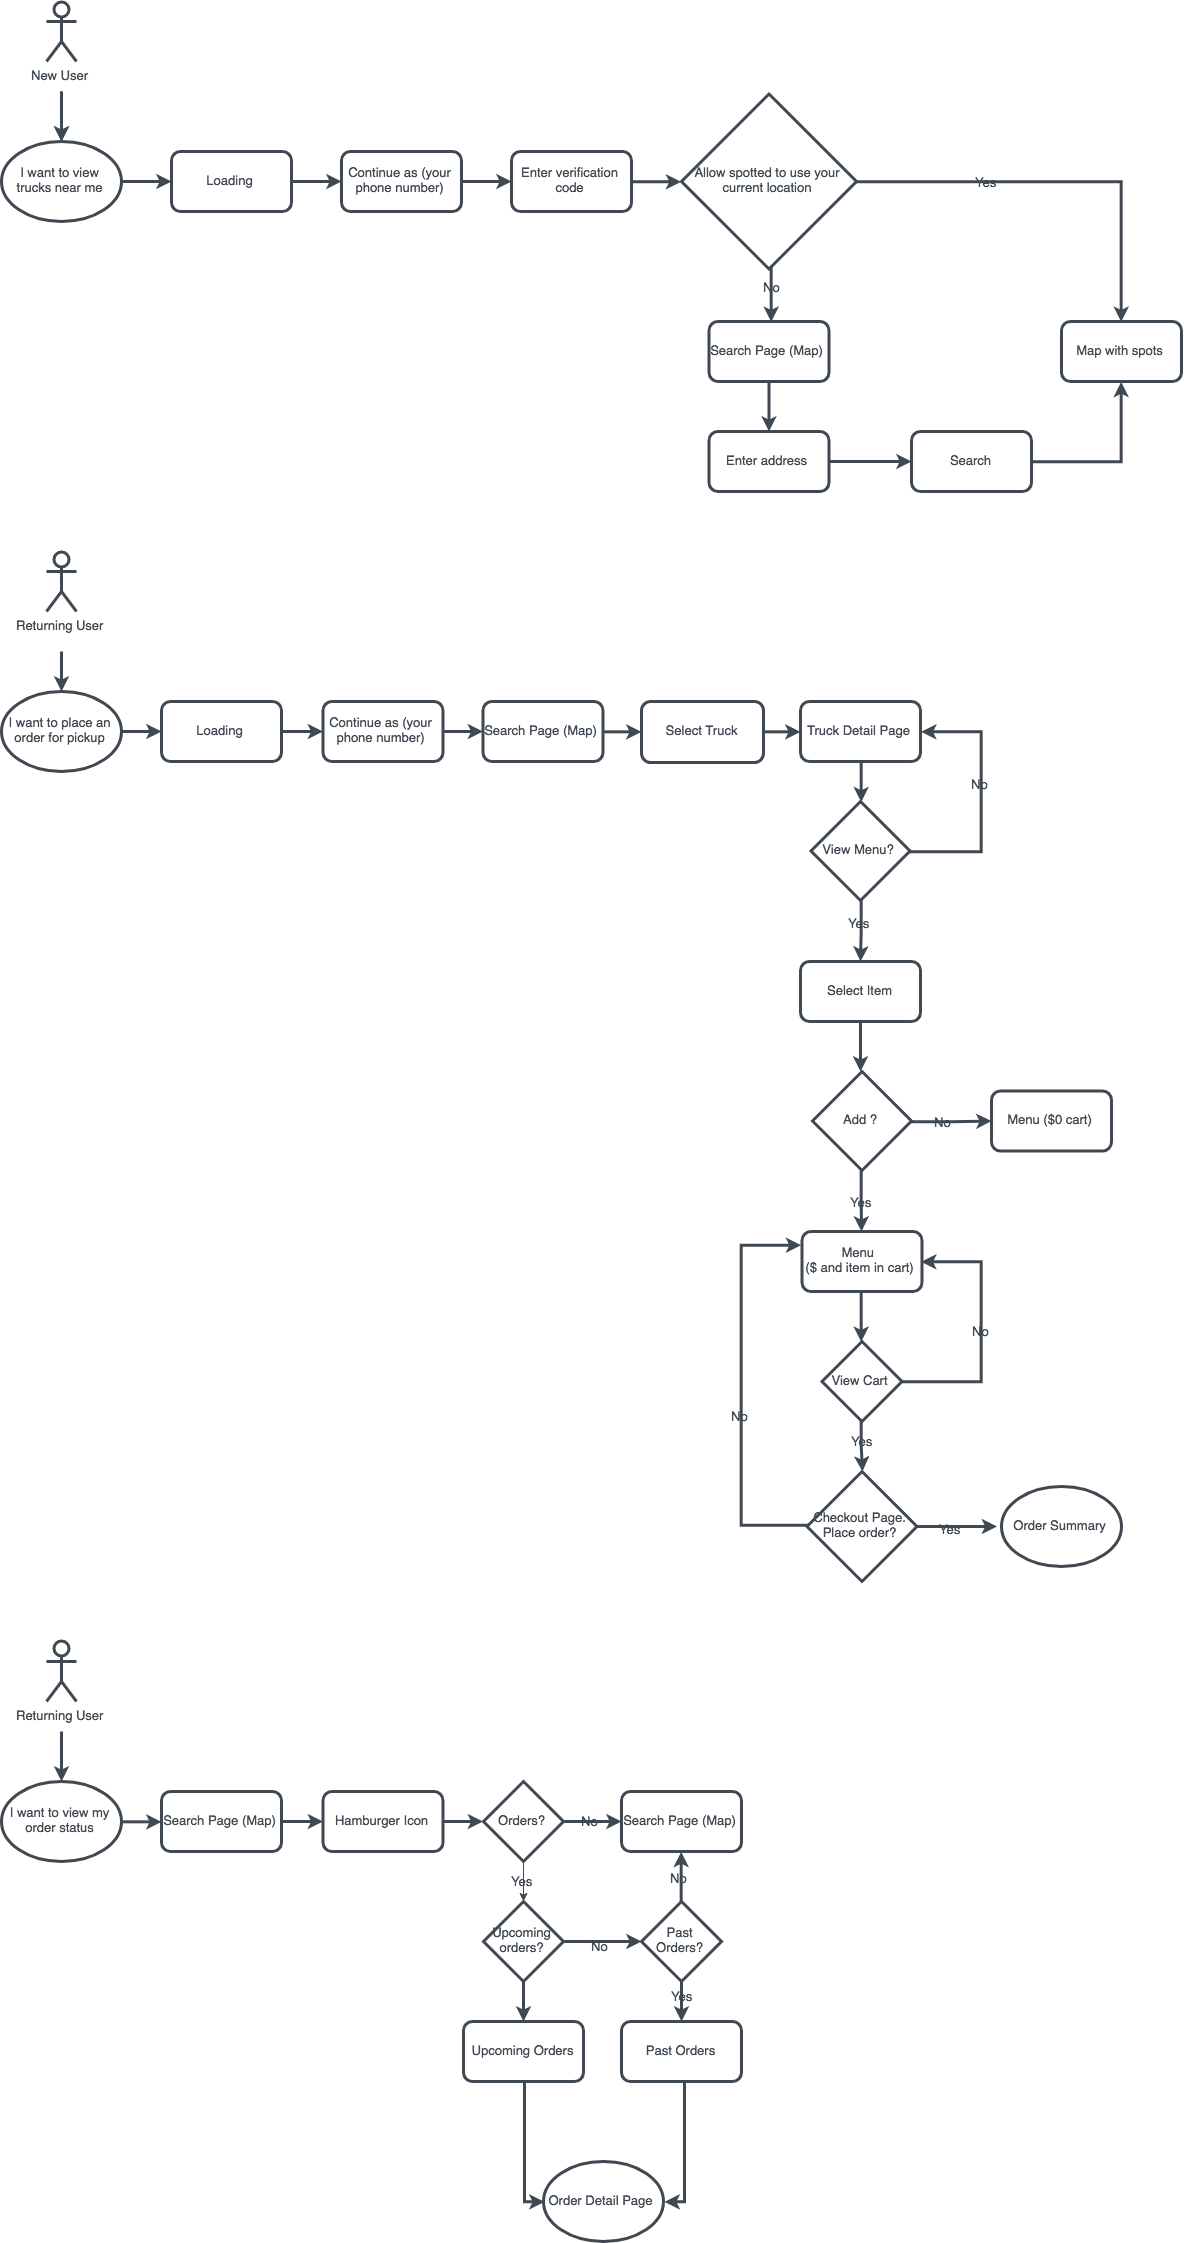
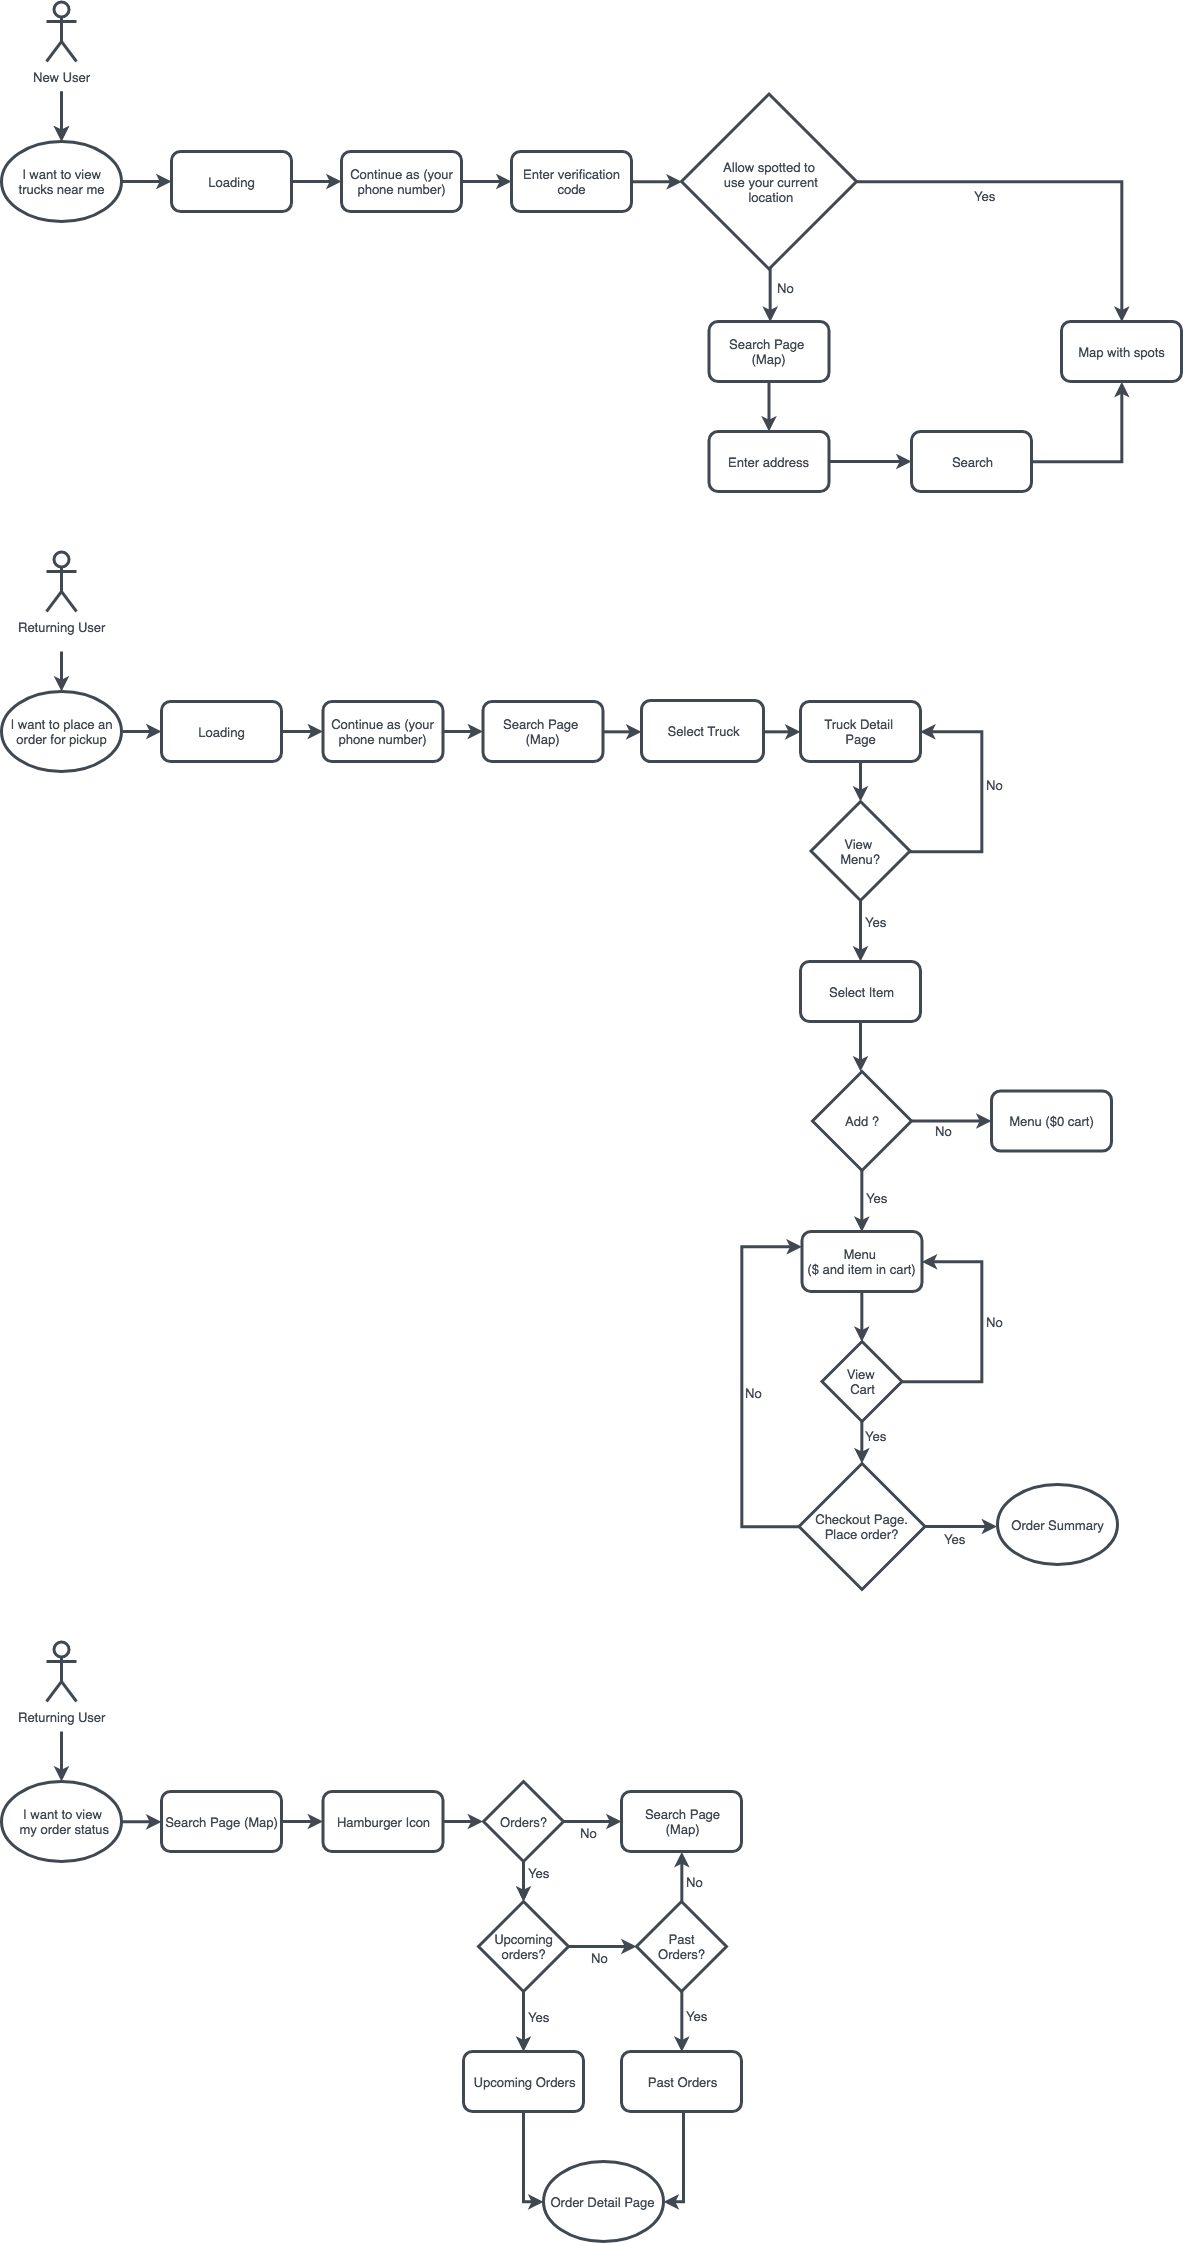
fixed user flows img

diff --git a/wasted.html b/wasted.html
@@ -58,7 +58,7 @@
             <li><a href="index.html" class="nav-item nav-link">HOME</a></li>
             <li><a href="index.html#work-landing" class="nav-item nav-link">ALL WORK<span class="sr-only">(current)</span></a></li>
             <li><a href="about.html" class="nav-item nav-link">ABOUT</a></li>
-            <li><a href="https://drive.google.com/file/d/1opeTQmTCmyy3ldVmmcLJvgDV6bBP1nVL/view?usp=sharing" target="_blank" class="nav-item nav-link">RESUME</a></li>
+            <li><a href="https://drive.google.com/file/d/17IOLVj9S6q36M6InaqTySi9cL_Q9hbSg/view?usp=sharing" target="_blank" class="nav-item nav-link">RESUME</a></li>
             <li><a href="#contact" class="nav-item nav-link">CONTACT</a></li>
           </ul>
       </div>
@@ -540,8 +540,8 @@ When conducting interviews, I took full advantage of the opportunity to speak to
     </div>
     <div class="flows">
       <h3 class="lg">User Flows</h3>
-      <p class="lg">Like an e-commerce site, users make purchases on wasted. Limiting the number of steps and fields from discovery - checkout is essential. To simplify tasks and get users from point A to point B with the fewest number of clicks I generated user flows prior to developing my visual designs.</p>
-      <div class="row text-center"><a href="https://drive.google.com/file/d/1Lkye8At11eW30ZnePeEKeZHX1VJPw5Ln/view?usp=sharing" target="_blank" class="case lemon dark btn left">Select User Flows</a></div>
+      <p class="lg">As an e-commerce site the primary goal is to get users to make a purchase. Limiting the number of steps and fields from discovery - checkout is essential. To simplify tasks and get users from point A to point B quickly and effortlessly, I developed user flows prior to developing my visual designs.</p>
+      <div class="row text-center"><a href="https://drive.google.com/file/d/1q539bvRLcPrTghxvq2NhFpWXgCS5VZ7g/view?usp=sharing" target="_blank" class="case lemon dark btn left">Select User Flows</a></div>
     </div>
   </div>
 </div>
@@ -570,8 +570,8 @@ When conducting interviews, I took full advantage of the opportunity to speak to
   </div>
   <div class="flows">
     <h3 class="sm">User Flows</h3>
-    <p class="sm">Like an e-commerce site, users make purchases on wasted. Limiting the number of steps and fields from discovery - checkout is essential. To simplify tasks and get users from point A to point B with the fewest number of clicks I generated user flows prior to developing my visual designs.</p>
-    <div class="row text-center"><a href="https://drive.google.com/file/d/1Lkye8At11eW30ZnePeEKeZHX1VJPw5Ln/view?usp=sharing" target="_blank" class="case lemon dark btn left">Select User Flows</a></div>
+    <p class="sm">As an e-commerce site the primary goal is to get users to make a purchase. Limiting the number of steps and fields from discovery - checkout is essential. To simplify tasks and get users from point A to point B quickly and effortlessly, I developed user flows prior to developing my visual designs.</p>
+    <div class="row text-center"><a href="https://drive.google.com/file/d/1q539bvRLcPrTghxvq2NhFpWXgCS5VZ7g/view?usp=sharing" target="_blank" class="case lemon dark btn left">Select User Flows</a></div>
   </div>
 </div>
 </div>
@@ -637,14 +637,14 @@ When conducting interviews, I took full advantage of the opportunity to speak to
       <p class="lg">When analyzing my competitors I paid close attention to the different types of navigation. Deciding to sell only women's products eliminated one level of categorization. My focus was then to think of the most intuitive way to sort top level categories and sub categories. Some e-commerce sites have confusing categories or more than one way to navigate to a particular type of item, because some items fall in more than one category. I wanted to avoid this and have one clear way to arrive a particular type of item or action.</p>
       <img src="images/wasted/wasted-sitemap.png" class="sitemap mx-auto d-block"/>
     <div class="row">
-        <a href="https://drive.google.com/file/d/1SOiETEPl3oiRl4vGS0WKviv6ixJrs52X/view?usp=sharing" target="_blank" class="case dark btn lime left">View Sitemap PDF</a>
+        <a href="https://drive.google.com/file/d/1tg2oEOWqx7rLDV1bovCeqxSmfc5tU8FZ/view?usp=sharing" target="_blank" class="case dark btn lime left">View Sitemap PDF</a>
     </div>
   </div>
   <div class="container-fluid wasted-c sitemap sm d-md-none">
       <h3 class="sm case dark">Navigation</h3>
       <p class="sm sitemap">When analyzing my competitors I paid close attention to the different types of navigation. Deciding to sell only women's products eliminated one level of categorization. My focus was then to think of the most intuitive way to sort top level categories and sub categories. Some e-commerce sites have confusing categories or more than one way to navigate to a particular type of item, because some items fall in more than one category. I wanted to avoid this and have one clear way to arrive a particular type of item or action.</p>
       <div class="row">
-        <a href="https://drive.google.com/file/d/1SOiETEPl3oiRl4vGS0WKviv6ixJrs52X/view?usp=sharing" target="_blank" class="case dark btn lime left">View Sitemap</a>
+        <a href="https://drive.google.com/file/d/1tg2oEOWqx7rLDV1bovCeqxSmfc5tU8FZ/view?usp=sharing" target="_blank" class="case dark btn lime left">View Sitemap</a>
       </div>
     </div>
 

diff --git a/dockit.html b/dockit.html
@@ -61,7 +61,7 @@
             <li><a href="index.html" class="nav-item nav-link">HOME</a></li>
             <li><a href="index.html#work-landing" class="nav-item nav-link">ALL WORK<span class="sr-only">(current)</span></a></li>
             <li><a href="about.html" class="nav-item nav-link">ABOUT</a></li>
-            <li><a href="https://drive.google.com/file/d/1opeTQmTCmyy3ldVmmcLJvgDV6bBP1nVL/view?usp=sharing" target="_blank" class="nav-item nav-link">RESUME</a></li>
+            <li><a href="https://drive.google.com/file/d/17IOLVj9S6q36M6InaqTySi9cL_Q9hbSg/view?usp=sharing" target="_blank" class="nav-item nav-link">RESUME</a></li>
             <li><a href="#contact" class="nav-item nav-link">CONTACT</a></li>
           </ul>
       </div>
@@ -484,7 +484,7 @@
   <!-- user stories/flows -->
   <div class="container-fluid stories dockit-c lg d-none d-md-block">
     <div class="row">
-    <div class="col-sm-6"><img src="images/dockit/user-flows.png" class="flows"/></div>
+    <div class="col-sm-6"><img src="images/dockit/dockit-user-flows.png" class="flows"/></div>
     <div class="col-sm-6">
       <div>
       <h3 class="lg white">User Stories</h3>
@@ -507,7 +507,7 @@
     <div class="flows">
       <h3 class="lg white">User Flows</h3>
       <p class="lg white">To clarify the complexities of user tasks and establish the information architecture of Dockit, I created user flows prior to developing my visual designs.</p>
-      <div class="row"><a href="https://drive.google.com/file/d/177z5MB0LnuhRaeybcwg-q9QV8pCd2AhB/view?usp=sharing" target="_blank" class="case seafoam btn left">Select User Flows</a></div>
+      <div class="row"><a href="https://drive.google.com/file/d/1ztlNchVWmnHbtEilzggoYaIh2CMJt5eR/view?usp=sharing" target="_blank" class="case seafoam btn left">Select User Flows</a></div>
     </div>
     </div>
   </div>
@@ -538,7 +538,7 @@
     <div class="flows">
       <h3 class="white sm">User Flows</h3>
       <p class="white sm">To clarify the complexities of user tasks and establish the information architecture of Dockit, I created user flows prior to developing my visual designs.</p>
-      <div class="row"><a href="https://drive.google.com/file/d/177z5MB0LnuhRaeybcwg-q9QV8pCd2AhB/view?usp=sharing" target="_blank" class="case seafoam btn left">Select User Flows</a></div>
+      <div class="row"><a href="https://drive.google.com/file/d/1ztlNchVWmnHbtEilzggoYaIh2CMJt5eR/view?usp=sharing" target="_blank" class="case seafoam btn left">Select User Flows</a></div>
     </div>
     </div>
   </div>
@@ -597,7 +597,7 @@
     <div class="container-fluid style dockit-c sm d-md-none">
       <div class="col-sm-6">
         <h3 class="sm case">Style</h3>
-        <p class="sm">For Dockit I kept style choices simple and engaging. Users spend a lot of time surfing the web and Dockit is a tool that would get frequent use. Understanding that, I kept the interface friendly and uncomplicated with warm color choices paired with grounding, darker teal hues.</br> </br> I selected one font for this project, Avenir. Avenir is an elegant, sleek sans-serif font that reads easily in body text and has some surprising forms when enlarged for header texts. Hence, it allowed me to stick with a single font for this project. Again, keeping things simple and clean for users.</p>
+        <p class="sm">For Dockit I kept style choices simple and engaging. Users spend a lot of time surfing the web and Dockit is a tool that would get frequent use. Understanding that, I kept the interface friendly and uncomplicated with warm color choices paired with grounding, darker teal hues.</br> </br> I selected one font for this project, Avenir. Avenir is an modern, sleek sans-serif font that reads easily in body text and has some surprising forms when enlarged for header texts. Hence, it allowed me to stick with a single font for this project. Again, keeping things simple and clean for users.</p>
       </div>
       <div class="col-sm-6">
         <img src="images/dockit/dockit-mobile-style.png" class="style sm"/>

diff --git a/spotted.html b/spotted.html
@@ -58,7 +58,7 @@
             <li><a href="index.html" class="nav-item nav-link">HOME</a></li>
             <li><a href="index.html#work-landing" class="nav-item nav-link">ALL WORK<span class="sr-only">(current)</span></a></li>
             <li><a href="about.html" class="nav-item nav-link">ABOUT</a></li>
-            <li><a href="https://drive.google.com/file/d/1opeTQmTCmyy3ldVmmcLJvgDV6bBP1nVL/view?usp=sharing" target="_blank" class="nav-item nav-link">RESUME</a></li>
+            <li><a href="https://drive.google.com/file/d/17IOLVj9S6q36M6InaqTySi9cL_Q9hbSg/view?usp=sharing" target="_blank" class="nav-item nav-link">RESUME</a></li>
             <li><a href="#contact" class="nav-item nav-link">CONTACT</a></li>
           </ul>
       </div>
@@ -535,7 +535,7 @@
       <div class="flows">
           <h3 class="lg">User Flows</h3>
           <p class="lg">Like an e-commerce site, users make purchases on Spotted. Limiting the number of steps and fields from discovery - checkout is essential. To simplify tasks and get users from point A to point B with the fewest number of clicks I generated user flows prior to developing my visual designs.</p>
-          <div class="row"><a href="https://drive.google.com/file/d/13VTVwyaoyhurKZED127tpRgbgZfu-N8h/view?usp=sharing" target="_blank" class="dark case rose btn left"> Select User Flows</a></div>
+          <div class="row"><a href="https://drive.google.com/file/d/1Rf8b-u5xxyafUT5J-20N21dQ36QAaLY1/view?usp=sharing" target="_blank" class="dark case rose btn left"> Select User Flows</a></div>
       </div>
     </div>
   </div>
@@ -565,7 +565,7 @@
       <div class="flows">
           <h3 class="sm">User Flows</h3>
           <p class="sm">Like an e-commerce site, users make purchases on Spotted. Limiting the number of steps and fields from discovery - checkout is essential. To simplify tasks and get users from point A to point B with the fewest number of clicks I generated user flows prior to developing my visual designs.</p>
-          <div class="row"><a href="https://drive.google.com/file/d/13VTVwyaoyhurKZED127tpRgbgZfu-N8h/view?usp=sharing" target="_blank" class="case dark rose btn left"> Select User Flows</a></div>
+          <div class="row"><a href="https://drive.google.com/file/d/1Rf8b-u5xxyafUT5J-20N21dQ36QAaLY1/view?usp=sharing" target="_blank" class="case dark rose btn left"> Select User Flows</a></div>
       </div>
     </div>
   </div>

diff --git a/index.html b/index.html
@@ -31,7 +31,7 @@
           <ul class="navbar-nav ml-auto mt-2 mt-md-0 index">
               <li><a href="#work-landing" class="nav-item nav-link landing">WORK<span class="sr-only">(current)</span></a></li>
               <li><a href="about.html" class="nav-item nav-link landing">ABOUT</a></li>
-              <li><a href="https://drive.google.com/file/d/1opeTQmTCmyy3ldVmmcLJvgDV6bBP1nVL/view?usp=sharing" target="_blank" class="nav-item nav-link landing">RESUME</a></li>
+              <li><a href="https://drive.google.com/file/d/17IOLVj9S6q36M6InaqTySi9cL_Q9hbSg/view?usp=sharing" target="_blank" class="nav-item nav-link landing">RESUME</a></li>
               <li><a href="#contact-landing" class="nav-item nav-link landing">CONTACT</a></li>
             </ul>
         </div>

diff --git a/about.html b/about.html
@@ -34,7 +34,7 @@
         <ul class="navbar-nav ml-auto mt-2 mt-md-0 index">
             <li><a href="index.html#work-landing" class="nav-item nav-link about">WORK<span class="sr-only">(current)</span></a></li>
             <li><a href="about.html" class="nav-item nav-link about">ABOUT</a></li>
-            <li><a href="https://drive.google.com/file/d/1opeTQmTCmyy3ldVmmcLJvgDV6bBP1nVL/view?usp=sharing" target="_blank" class="nav-item nav-link about">RESUME</a></li>
+            <li><a href="https://drive.google.com/file/d/17IOLVj9S6q36M6InaqTySi9cL_Q9hbSg/view?usp=sharing" target="_blank" class="nav-item nav-link about">RESUME</a></li>
             <li><a href="#contact" class="nav-item nav-link about">CONTACT</a></li>
           </ul>
       </div>
